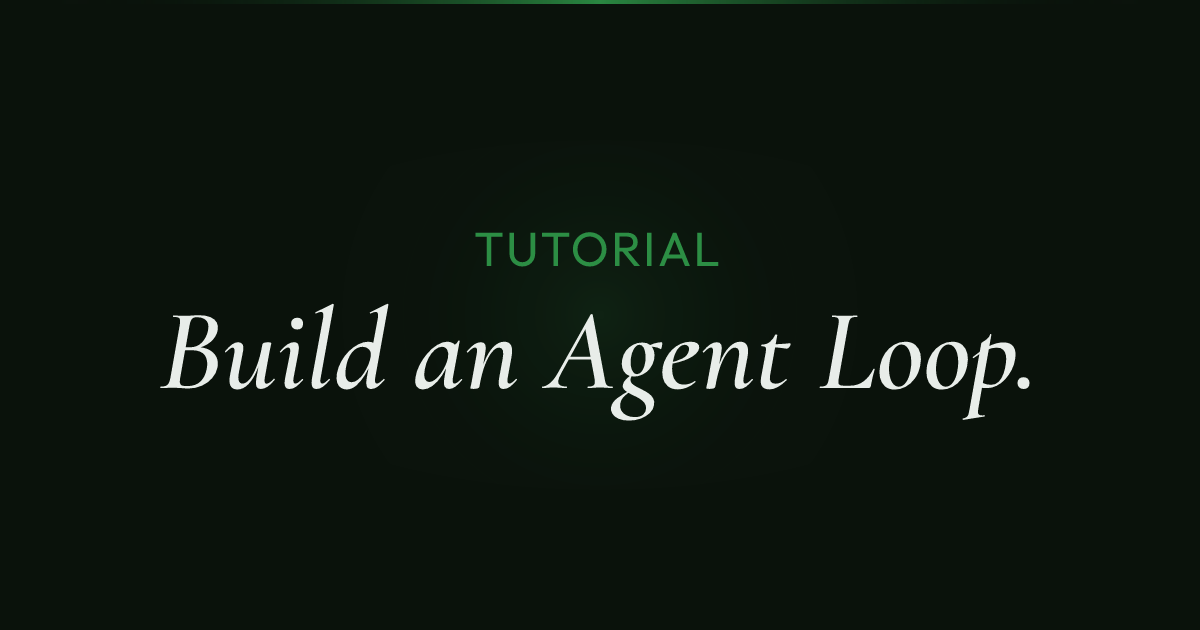
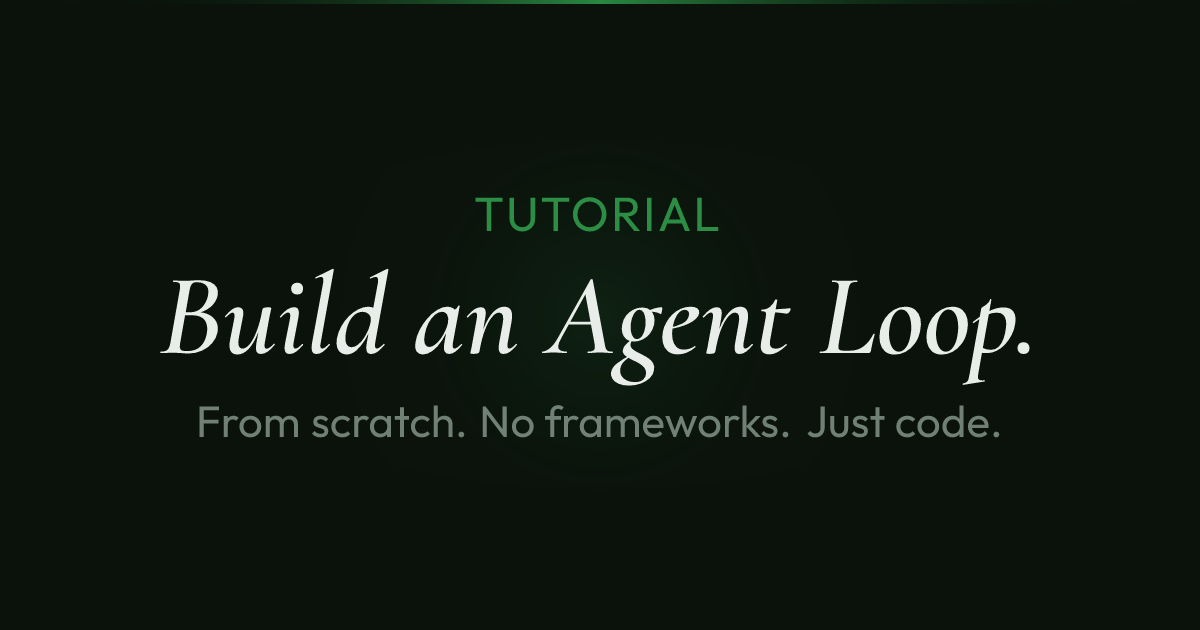
add subtitles to OG cards, fix docs card redundancy

Changed region(s): [[0.1233, 0.4222, 0.8633, 0.6937], [0.4008, 0.3016, 0.5858, 0.4222]]

diff --git a/scripts/generate-og.ts b/scripts/generate-og.ts
@@ -21,26 +21,31 @@ const pages = [
   {
     filename: 'og-why.png',
     title: 'Hatched from OpenClaw.',
+    subtitle: 'What we learned. What we rebuilt.',
     tag: 'WHY OUROBOROS',
   },
   {
     filename: 'og-story.png',
     title: 'The Origin Story.',
+    subtitle: 'From plugin hell to a fresh architecture.',
     tag: 'OUROBOROS',
   },
   {
     filename: 'og-blog.png',
     title: 'Dispatches from the serpent.',
+    subtitle: 'Essays, tutorials, and build logs.',
     tag: 'BLOG',
   },
   {
     filename: 'og-tutorial.png',
     title: 'Build an Agent Loop.',
+    subtitle: 'From scratch. No frameworks. Just code.',
     tag: 'TUTORIAL',
   },
   {
     filename: 'og-docs.png',
-    title: 'Documentation.',
+    title: 'Under the hood.',
+    subtitle: 'Architecture, APIs, and getting started.',
     tag: 'DOCS',
   },
 ]
